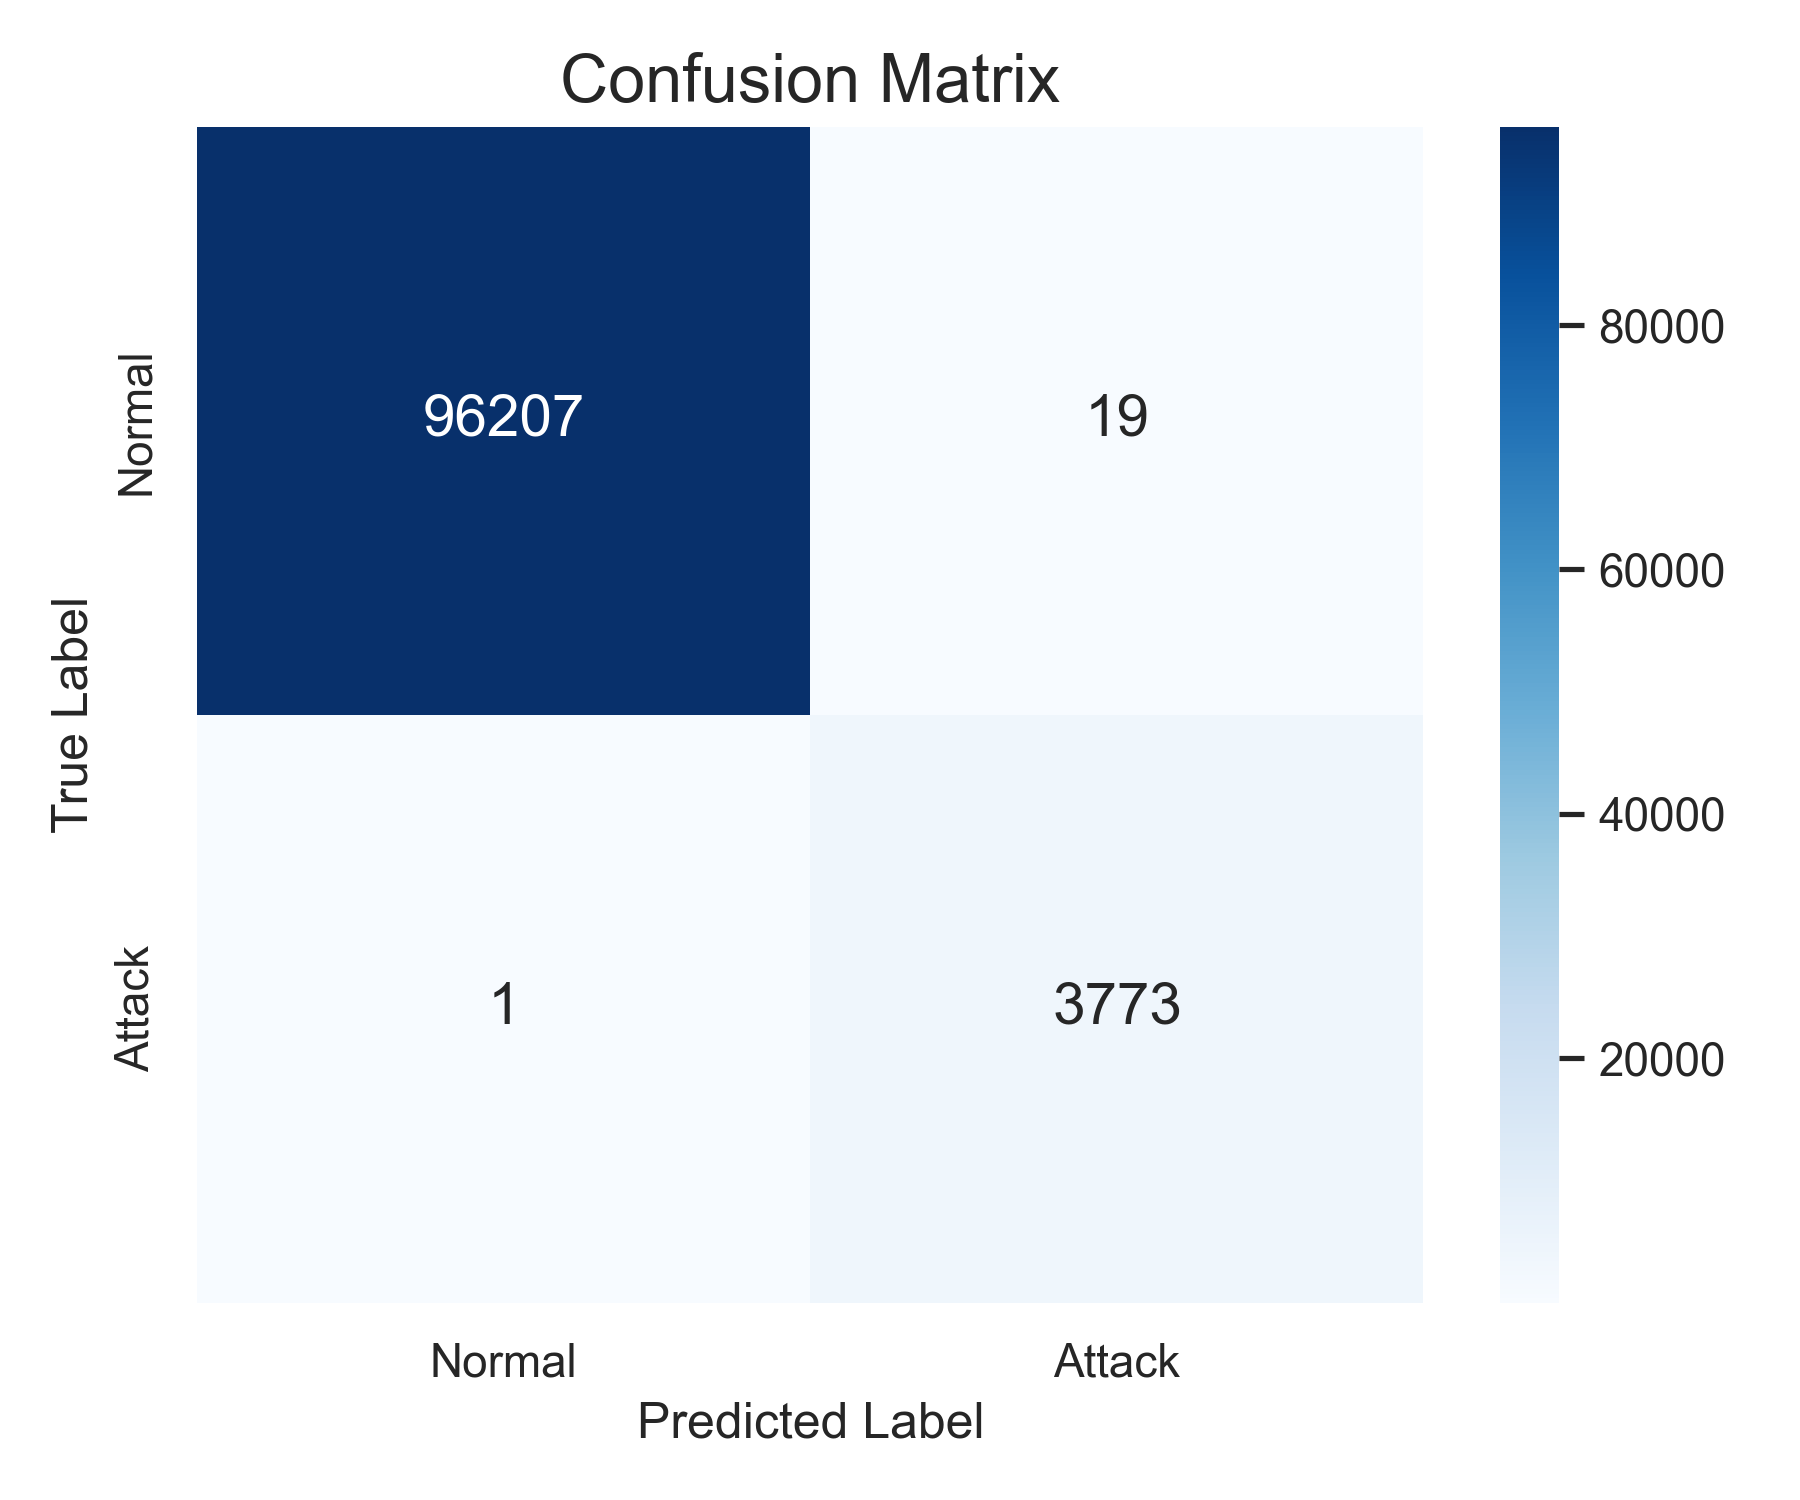
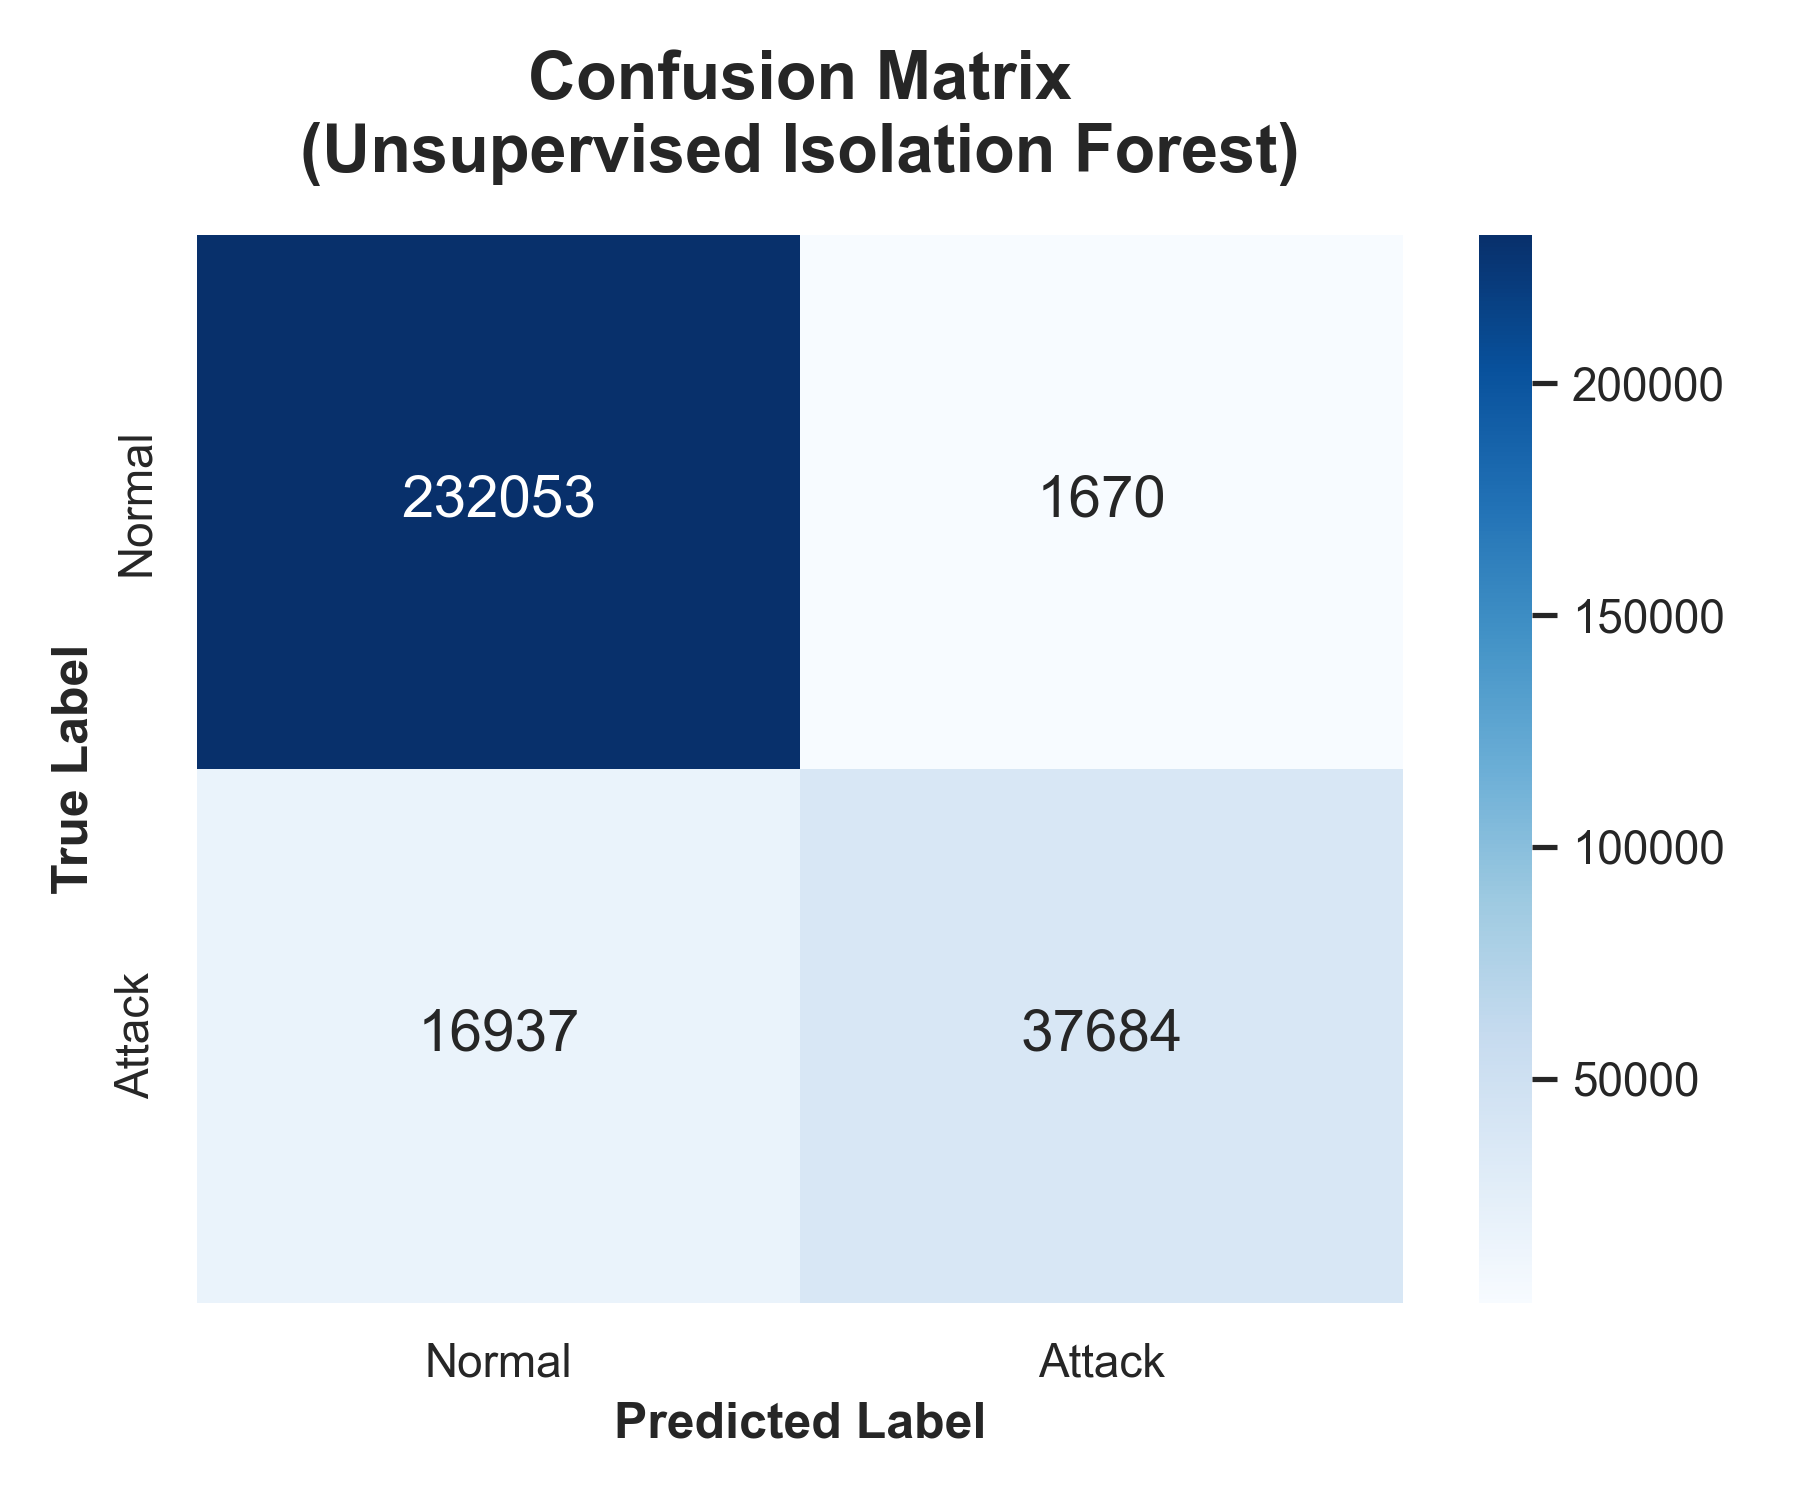
docs(plots): update evaluation performance and confusion matrix charts

diff --git a/scratch/plot_metrics_updated.py b/scratch/plot_metrics_updated.py
@@ -1,0 +1,56 @@
+import matplotlib.pyplot as plt
+import seaborn as sns
+import numpy as np
+import os
+
+# Create reports directory if it doesn't exist
+os.makedirs('reports', exist_ok=True)
+
+# Set style
+sns.set_theme(style="whitegrid")
+
+# 1. Confusion Matrix
+plt.figure(figsize=(6, 5))
+cm = np.array([[232053, 1670], [16937, 37684]])
+sns.heatmap(cm, annot=True, fmt='d', cmap='Blues', 
+            xticklabels=['Normal', 'Attack'], 
+            yticklabels=['Normal', 'Attack'],
+            annot_kws={"size": 14})
+plt.title('Confusion Matrix\n(Unsupervised Isolation Forest)', fontsize=16, fontweight='bold', pad=15)
+plt.ylabel('True Label', fontsize=12, fontweight='bold')
+plt.xlabel('Predicted Label', fontsize=12, fontweight='bold')
+plt.tight_layout()
+plt.savefig('reports/confusion_matrix.png', dpi=300)
+plt.close()
+
+# 2. Classification Metrics Bar Chart
+plt.figure(figsize=(8, 5))
+metrics = ['Precision', 'Recall', 'F1-Score', 'ROC-AUC']
+values = [0.9576, 0.6899, 0.8020, 0.9431]
+colors = ['#388bfd', '#3fb950', '#d29922', '#f85149']
+
+ax = sns.barplot(x=metrics, y=values, palette=colors)
+plt.title('Classification Metrics\n(Unsupervised Isolation Forest)', fontsize=16, fontweight='bold', pad=15)
+plt.ylim(0.0, 1.1)
+for i, v in enumerate(values):
+    ax.text(i, v + 0.02, f'{v:.4f}', ha='center', fontsize=12, fontweight='bold')
+plt.ylabel('Score', fontsize=12, fontweight='bold')
+plt.tight_layout()
+plt.savefig('reports/classification_metrics.png', dpi=300)
+plt.close()
+
+# 3. Streaming Performance (Latency)
+plt.figure(figsize=(8, 5))
+latency_metrics = ['Mean', 'Median', 'p95', 'p99']
+latency_values = [68.42, 67.83, 74.87, 83.24]
+
+ax = sns.barplot(x=latency_metrics, y=latency_values, color='#8b949e')
+plt.title('Streaming Inference Latency per Batch (ms)\n(Batch Size = 256)', fontsize=16, fontweight='bold', pad=15)
+plt.ylabel('Latency (ms)', fontsize=12, fontweight='bold')
+for i, v in enumerate(latency_values):
+    ax.text(i, v + 1.5, f'{v:.2f} ms', ha='center', fontsize=12, fontweight='bold')
+plt.tight_layout()
+plt.savefig('reports/latency_metrics.png', dpi=300)
+plt.close()
+
+print("All updated visuals generated successfully in reports/ directory.")